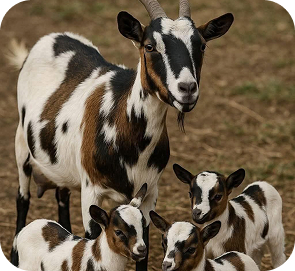
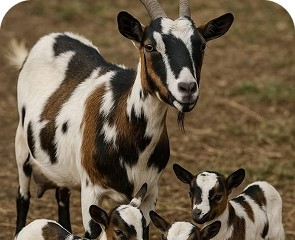
images

diff --git a/src/components/products/ProductDetailLayout.tsx b/src/components/products/ProductDetailLayout.tsx
@@ -40,7 +40,7 @@ const ProductDetailLayout = ({
                 <img
                   src={heroImage}
                   alt={heroImageAlt}
-                  className="w-full h-[280px] md:h-[320px] object-cover"
+                  className="w-full h-[280px] md:h-[350px] object-cover"
                 />
               </div>
               <div className="w-full md:w-[35%]">
